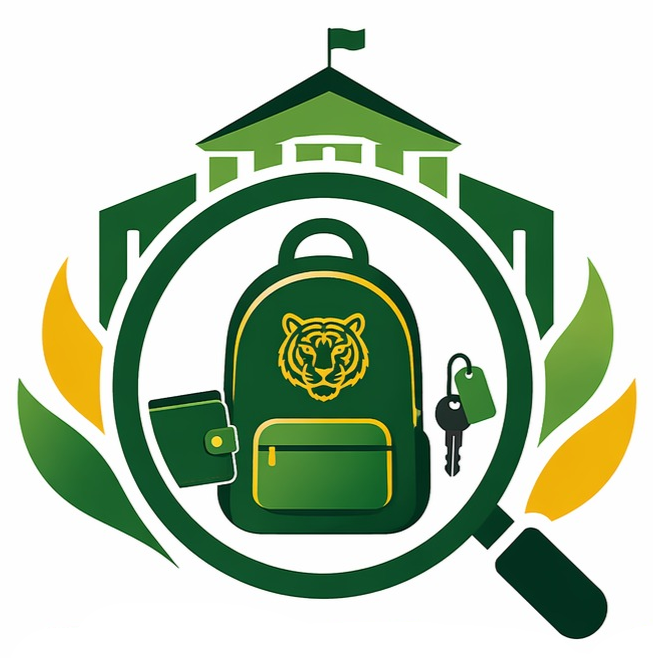
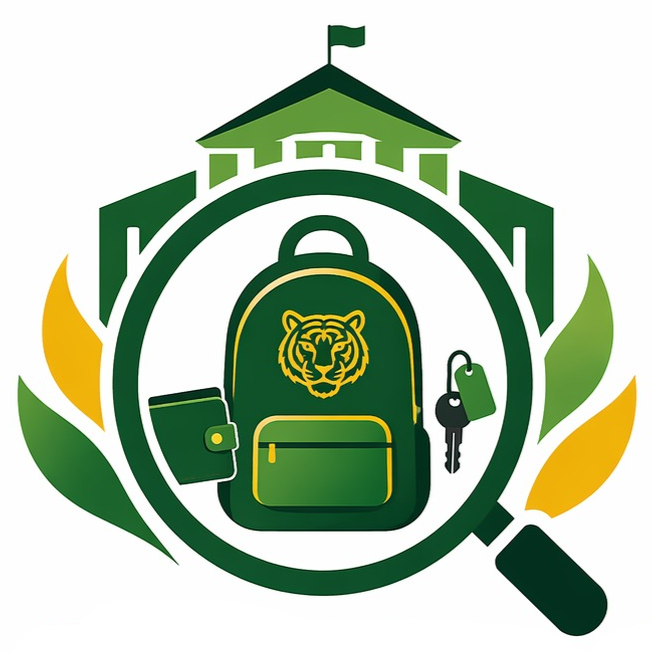
edit phone number

diff --git a/mobile/app/(tabs)/profile.tsx b/mobile/app/(tabs)/profile.tsx
@@ -22,6 +22,7 @@ export default function ProfileScreen() {
   const { user, logout, refreshProfile } = useAuth();
   const { showToast } = useToast();
   const [name, setName] = useState(user?.name ?? "");
+  const [phoneNumber, setPhoneNumber] = useState(user?.phoneNumber ?? "");
   const [currentPassword, setCurrentPassword] = useState("");
   const [newPassword, setNewPassword] = useState("");
   const [confirmPassword, setConfirmPassword] = useState("");
@@ -37,7 +38,8 @@ export default function ProfileScreen() {
 
   useEffect(() => {
     setName(user?.name ?? "");
-  }, [user?.name]);
+    setPhoneNumber(user?.phoneNumber ?? "");
+  }, [user?.name, user?.phoneNumber]);
 
   const loadReports = useCallback(async () => {
     try {
@@ -80,11 +82,33 @@ export default function ProfileScreen() {
   }
 
   async function handleUpdateProfile() {
+    const trimmedName = name.trim();
+    const sanitizedPhone = phoneNumber.trim();
+
+    if (!trimmedName) {
+      showToast({
+        type: "error",
+        title: "Data belum lengkap",
+        message: "Nama lengkap wajib diisi.",
+      });
+      return;
+    }
+
+    if (!/^[0-9]{10,15}$/.test(sanitizedPhone)) {
+      showToast({
+        type: "error",
+        title: "Nomor telepon tidak valid",
+        message: "Nomor telepon harus berisi 10-15 digit angka.",
+      });
+      return;
+    }
+
     setProfileLoading(true);
 
     try {
       await api.put("/auth/profile", {
-        name: name.trim(),
+        name: trimmedName,
+        phoneNumber: sanitizedPhone,
       });
       await refreshProfile();
       setEditOpen(false);
@@ -208,7 +232,7 @@ export default function ProfileScreen() {
       <ProfileModal
         open={editOpen}
         title="Edit Profile"
-        description="Perbarui nama lengkap yang tampil di akun kamu."
+        description="Perbarui nama lengkap dan nomor telepon akun kamu."
         onClose={() => setEditOpen(false)}
       >
         <Field
@@ -216,6 +240,13 @@ export default function ProfileScreen() {
           placeholder="Nama lengkap"
           value={name}
           onChangeText={setName}
+        />
+        <Field
+          label="Nomor Telepon"
+          placeholder="Contoh: 081234567890"
+          value={phoneNumber}
+          onChangeText={setPhoneNumber}
+          keyboardType="phone-pad"
         />
         <ModalButton
           icon="save"
@@ -368,12 +399,14 @@ function ModalButton({
 }
 
 function Field({
+  keyboardType = "default",
   label,
   onChangeText,
   placeholder,
   secureTextEntry = false,
   value,
 }: {
+  keyboardType?: "default" | "email-address" | "phone-pad" | "numeric";
   label: string;
   onChangeText: (value: string) => void;
   placeholder: string;
@@ -385,6 +418,7 @@ function Field({
       <Text className="mb-2 text-sm font-bold text-slate-700">{label}</Text>
       <TextInput
         onChangeText={onChangeText}
+        keyboardType={keyboardType}
         placeholder={placeholder}
         placeholderTextColor="#94a3b8"
         secureTextEntry={secureTextEntry}